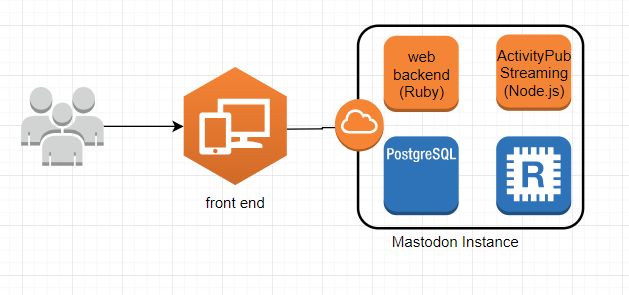
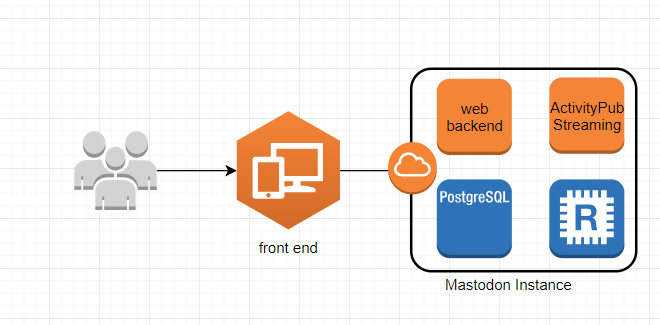
update case study report

Changed region(s): [[0.0302, 0.061, 0.9666, 0.9153], [0.3927, 0.7322, 0.4833, 0.7932]]

diff --git a/README.md b/README.md
@@ -1,19 +1,65 @@
 # Case study - Mastodon
 ## 1. Technology and Platform
+Mastodon is a free, open-source social network server based on ActivityPub. Follow friends and discover new ones. Publish anything you want: links, pictures, text, video. All servers of Mastodon are interoperable as a federated network, i.e. users on one server can seamlessly communicate with users from another one. This includes non-Mastodon software that also implements ActivityPub!  
 ### a. Coding language
+The project is using different coding language for different modules: Ruby on Rails powers the REST API and other web pages, React.js and Redux are used for the dynamic parts of the interface and Node.js powers the streaming API.  
+Ruby on Rails is a web application development framework written in the Ruby programming language. It is designed to make programming web applications easier by making assumptions about what every developer needs to get started. It allows users to write accomplishing more than many other languages and frameworks. I do think the same languages would be used if the project was started today. Because it's a framework mainly for web application development and is much easier to learn and code than some huge framework like java spring. Compared to Ruby on Rails, I'm more familiar with Python Django. But Django doesn't have much documentation and is less popular than Ruby on Rails. So I think Ruby on Rails is a better choice.  
 ### b. Building system
+This project mainly use Bundle and Yarn to build all the Ruby and JavaScript dependencies. Before building this whole project, you need to set up Ruby and Node.js environments. Also you need to set up PostgreSQL, Redis and Nginx.  
 ### c. Frameworks or libraries used
+#### Ruby  
+* `haml`, a templating language  
+* `devise`, for authentication  
+* `doorkeeper`, for acting as an OAuth 2 provider  
+* `paperclip`, for file uploads and attachments  
+* `sidekiq`, for background processing  
+
+#### JavaScript  
+* `immutable`, for immutable data structures  
+* `react`, for rendering the dynamic web application  
+* `react-redux`, for managing React state  
+* `react-router-dom`, for navigation within React  
+* `react-intl`, for localizations within React  
 ## 2. Testing
+This project is using the circleci as their CI platforms. The circleci will start 4 jobs for every commits. One job is doing the i18n checks and other jobs check the instalation of Ruby and Node.js dependencies and build the whole project.  
+This project uses unit test and system test to test their functionality, however I didn't find anything like the code coverage metrics to ensure the test is meaningful.    
 ## 3. Software architecture
 ### a. How would you add/edit functionality to this project? How would one use this project from external projects?
+Here's an overview of the whole code structure. I can edit or add functionality to this project based on description below:  
+#### Ruby
+| Path             | Description                                             |
+| ---------------- |:-------------------------------------------------------:|
+|`app/controllers` | Code that binds business logic to templates             |
+|`app/helpers`	   | Code that can be used from views, i.e. common operations|
+|`app/lib`	       | Code that doesn’t fit in the other categories           |
+|`app/models`	   | Code that represents data entities                      |
+|`app/serializers` | Code that generates JSON from models                    |
+|`app/services`	   | Complex logical operations involving multiple models    |
+|`app/views`	   | Templates for generating HTML or other output           |
+|`app/workers`	   | Code that executes outside the request-response cycle   |
+|`spec`	           | Automated test suite                                    |
+#### JavaScript
+|Path	                   | Description                                             |
+| ------------------------ |:-------------------------------------------------------:|
+|`app/javascript/mastodon` | Code for the multi-column React.js application          |
+|`app/javascript/packs`	   | Code for non-React.js pages                             |
+#### CSS and other assets
+|Path	                   | Description                                             |
+| ------------------------ |:-------------------------------------------------------:|
+|`app/javascript/images`   | Images                                                  |
+|`app/javascript/styles`   | Code that turns into CSS via Sass                       |
+This project is only usable as a standalone program.  
 ### b. What part of the softwares are asynchronous?
+Ruby on Rails is actually using sidekiq to run most of the jobs in the background. Then most of the services this project provide to users is asynchronous. Sidekiq is a simple, efficient background processing for Ruby. Sidekiq uses threads to handle many jobs at the same time in the same process.  
 ### c. System diagram
 Here's an overview of the Mastodon Instance:  
 <img src="./images/Mastodon_Instance.PNG">  
+One Mastodon Instance consists several different modules: Nginx, PostgreSQL database, Redis, a web backend program written on Ruby and a streaming module developed on Node.js. The Nginx acts as a proxy which will handle all the HTTP requests from users. The PostgreSQL db is used for users' data storage. The Redis is used to cache data and to store queued tasks. The web application powers the REST API and all the web pages. The streaming module is used to GET or POST informations between different Mastodon instances.  
+Different Mastodon Instances can connect with each other and constructs a federated network:  
+<img src="./images/federated_network.PNG">  
 Mastodon Instance can be deployed by anyone on any servers. All Mastodon Instances then can communicate with each other via ActivityPub protocol. Users can choose any one Mastodon Instance and register an account on it. Then users not only can view all the information published by users from this instance, but also can get information from other different instances.  
-One Mastodon Instance consists several different modules: Nginx, PostgreSQL database, Redis, a web backend program written on Ruby and a streaming module developed on Node.js. The Nginx acts as a proxy which will handle all the HTTP requests from users. The PostgreSQL db is used for users' data storage. The Redis is used to cache data and to store queued tasks. The web application powers the REST API and all the web pages. The streaming module is used to GET or POST informations between different Mastodon instances.
-### e. What architectural patterns are sued?
-
+### e. What architectural patterns are used?
+For a single Mastodon instance, the project is using the simpel client-server architecture. For the whole federated network, the project is actually a peer-to-peer network architecture or server-server architecture.  
 ## 4. Analyze two defects in the project
 ## 5. Demo
 I successfully install my own Mastodon Instance on a AWS EC2 VM. In order to let people visit my own Mastodon instance, I set up a domain for the AWS EC2 and then people can visit this instance by url: <https://www.brefcube.com>.
